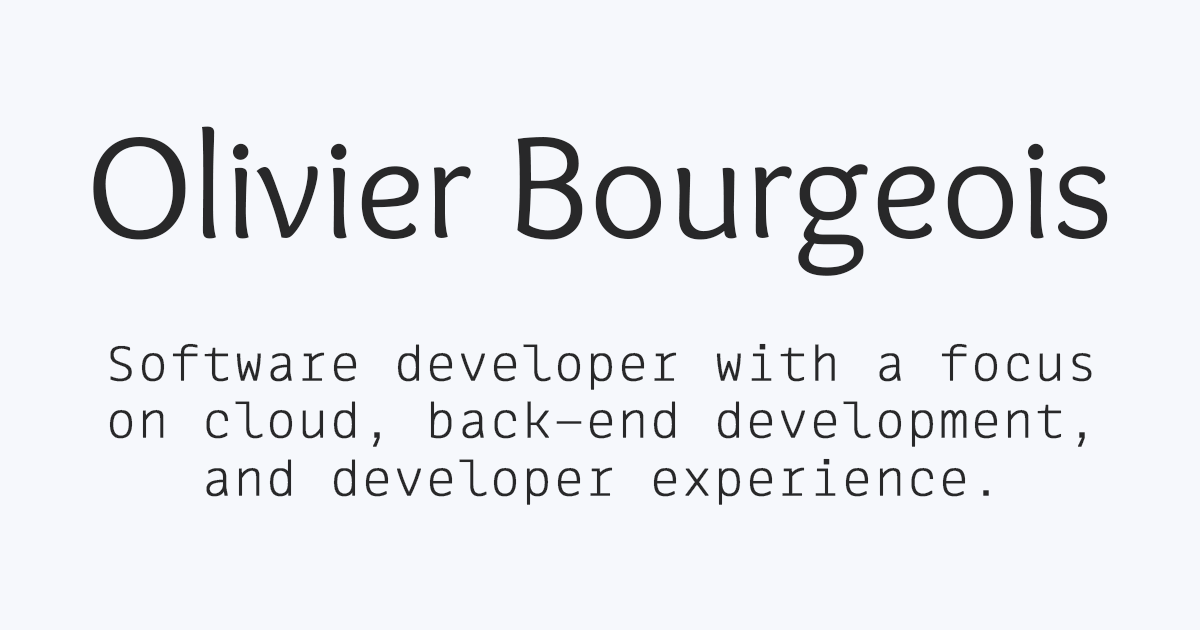
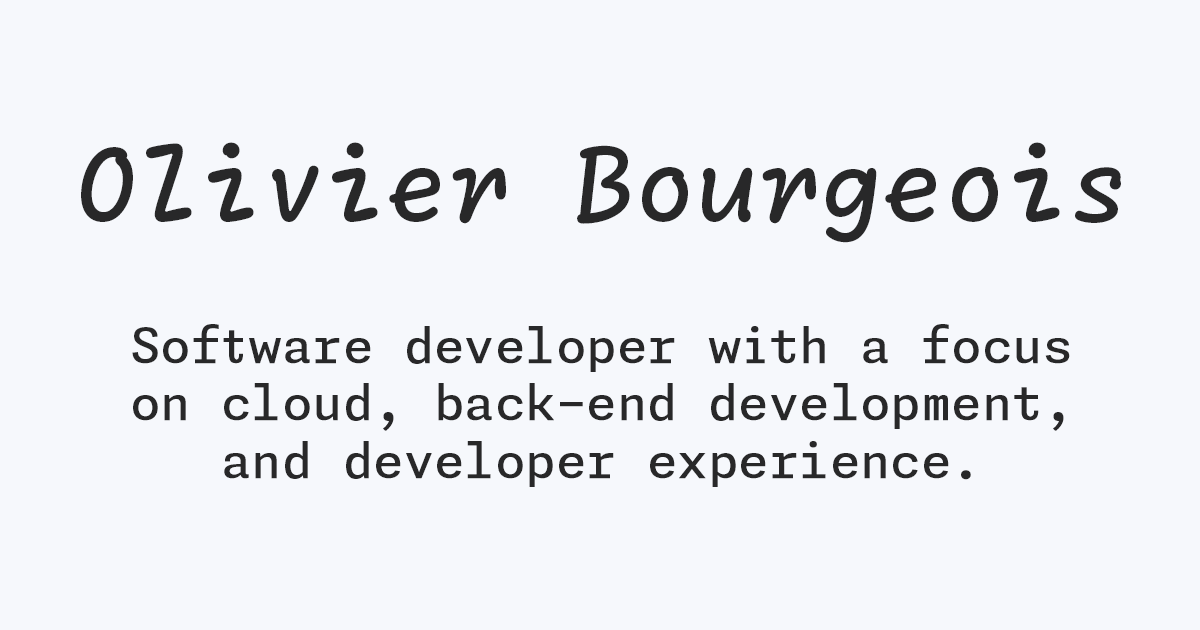
Tweak styling and wordings

Changed region(s): [[0.0925, 0.5127, 0.925, 0.8143], [0.0617, 0.181, 0.9558, 0.4524]]

diff --git a/static/style.css b/static/style.css
@@ -19,8 +19,10 @@
   --color-orange: #86510c;
   --color-purple: #8418dd;
 
-  --header-font-family: "Monaspace Neon", monospace, sans-serif;
+  --header-font-family: "Monaspace Radon", monospace, sans-serif;
   --body-font-family: "Monaspace Neon", monospace, sans-serif;
+  --font-size: 18px;
+  --line-height: 1.6;
 }
 
 :root[data-theme="dark"] {
@@ -49,7 +51,6 @@
 }
 
 @font-face {
-  /* TODO: figure out why font features are not working */
   font-family: "Monaspace Neon";
   font-style: normal;
   font-weight: 200 800;
@@ -57,6 +58,18 @@
   font-display: swap;
   src: url("/static/fonts/MonaspaceNeonVarVF[wght,wdth,slnt].woff2") format("woff2");
   src: url("/static/fonts/MonaspaceNeonVarVF[wght,wdth,slnt].woff2") format("woff2") tech("variations");
+  font-variation-settings: "slnt" 0, "wdth" 100, "wght" 400;
+  font-feature-settings: "calt", "liga", "ss01", "ss02", "ss03", "ss04", "ss05", "ss06", "ss07", "ss08";
+}
+
+@font-face {
+  font-family: "Monaspace Radon";
+  font-style: normal;
+  font-weight: 200 800;
+  font-stretch: 100 125;
+  font-display: swap;
+  src: url("/static/fonts/MonaspaceRadonVarVF[wght,wdth,slnt].woff2") format("woff2");
+  src: url("/static/fonts/MonaspaceRadonVarVF[wght,wdth,slnt].woff2") format("woff2") tech("variations");
   font-variation-settings: "slnt" 0, "wdth" 100, "wght" 400;
   font-feature-settings: "calt", "liga", "ss01", "ss02", "ss03", "ss04", "ss05", "ss06", "ss07", "ss08";
 }
@@ -69,8 +82,8 @@ body {
 
   font-family: var(--body-font-family);
   font-optical-sizing: auto;
-  font-size: 16px;
-  line-height: 1.5;
+  font-size: var(--font-size);
+  line-height: var(--line-height);
 
   max-width: 1200px;
   padding: 0 50px;
@@ -135,7 +148,7 @@ header {
   padding-right: 30px;
 }
 
-#header-card > h1 {
+#header-card > a > h1 {
   color: var(--text-color);
   margin-bottom: 0;
 }
@@ -150,7 +163,7 @@ header > nav {
   background-color: var(--main-background-color);
   border-radius: 20px;
   border: 1px solid var(--borders-color);
-  height: 35px;
+  height: 38px;
   display: flex;
   justify-content: space-between;
 }
@@ -172,7 +185,7 @@ header > nav > ul > li > a {
   font-variation-settings: "slnt" 0, "wdth" 100, "wght" 500;
   padding: 0 10px;
   display: inline-block;
-  height: 29px;
+  height: 32px;
   padding-top: 6px;
 }
 
@@ -430,6 +443,8 @@ pre code {
 @media (max-width: 576px) {
   body {
     padding: 0 0;
+    font-size: 16px;
+    line-height: 1.4;
   }
 
   main {
@@ -446,11 +461,19 @@ pre code {
 
   header > nav {
     border-radius: 0;
+    justify-content: center;
+  }
+
+  header > nav > ul {
+    display: flex;
+    justify-content: space-evenly;
+    width: 100%;
   }
 
   #header-card {
     padding-left: 15px;
     padding-right: 15px;
+    text-align: center;
   }
 
   #blog-list > .resume-cards-group:not(:first-child) {
@@ -460,9 +483,21 @@ pre code {
   footer {
     padding: 15px;
   }
+
+  h1 {
+    font-size: 2rem;
+  }
+
+  h2 {
+    font-size: 1.8rem;
+  }
+
+  .d-xs-none {
+    display: none;
+  }
 }
 
-@media (min-width: 576px) and (max-width: 768px) {
+@media (min-width: 576px) and (max-width: 768px) {  
   body {
     padding: 10px 30px;
   }

diff --git a/templates/_prefix.html b/templates/_prefix.html
@@ -49,41 +49,40 @@
   </head>
   <body>
     <header>
-      <img src="/static/assets/profile.jpg" alt="Olivier Bourgeois" id="header-image" class="d-sm-none" width="88" height="88">
+      <a href="/">
+        <img src="/static/assets/profile.jpg" alt="Olivier Bourgeois" id="header-image" class="d-sm-none" width="88" height="88">
+      </a>
       <div id="header-card">
-        <h1>Olivier Bourgeois</h1>
+        <a href="/"><h1>Olivier Bourgeois</h1></a>
         <p>Software developer with a focus on cloud, back-end development, and developer experience.</p>
       </div>
       <nav>
         <ul>
           <li><a href="/">
-            <i class="fa-regular fa-house"></i><span class="d-sm-none ms-1">Home</span>
+            <i class="fa-regular fa-house"></i><span class="d-md-none ms-1">Home</span>
           </a></li>
           <li><a href="/blog/">
-            <i class="fa-regular fa-newspaper"></i><span class="d-sm-none ms-1">Blog</span></span>
+            <i class="fa-regular fa-newspaper"></i><span class="d-md-none ms-1">Blog</span></span>
           </a></li>
           <li><a href="/about/">
-            <i class="fa-regular fa-messages-question"></i><span class="d-sm-none ms-1">About</span></span>
+            <i class="fa-regular fa-messages-question"></i><span class="d-md-none ms-1">About</span></span>
           </a></li>
           <li><a href="/now/">
-            <i class="fa-regular fa-calendar-lines-pen"></i><span class="d-sm-none ms-1">Now</span></span>
+            <i class="fa-regular fa-calendar-lines-pen"></i><span class="d-md-none ms-1">Now</span></span>
           </a></li>
           <li><a href="/projects/">
-            <i class="fa-regular fa-seedling"></i><span class="d-sm-none ms-1">Projects</span></span>
+            <i class="fa-regular fa-seedling"></i><span class="d-md-none ms-1">Projects</span></span>
           </a></li>
           <li><a href="/resume/">
-            <i class="fa-regular fa-memo-circle-info"></i><span class="d-sm-none ms-1">Resume</span></span>
+            <i class="fa-regular fa-memo-circle-info"></i><span class="d-md-none ms-1">Resume</span></span>
           </a></li>
           <li><a href="/contact/">
-            <i class="fa-regular fa-envelope"></i><span class="d-sm-none ms-1">Contact</span></span>
+            <i class="fa-regular fa-envelope"></i><span class="d-md-none ms-1">Contact</span></span>
           </a></li>
         </ul>
-        <ul class="d-md-none">
+        <ul class="d-xs-none">
           <li><a href="https://github.com/bourgeoisor" target="_blank" aria-label="Link to my GitHub profile">
             <i class="fa-brands fa-github"></i>
-          </a></li>
-          <li><a href="https://www.instagram.com/olivi_eh/" target="_blank" aria-label="Link to my Instagram profile">
-            <i class="fa-brands fa-instagram"></i>
           </a></li>
           <li><a href="https://www.linkedin.com/in/olivi-eh/" target="_blank" aria-label="Link to my LinkedIn profile">
             <i class="fa-brands fa-linkedin"></i>

diff --git a/templates/_suffix.html b/templates/_suffix.html
@@ -1,5 +1,5 @@
   <footer>
-    <div class="d-sm-none">
+    <div class="d-md-none">
       Powered by 100% Canadian maple syrup. <i class="fa-solid fa-leaf-maple"></i>
     </div>
     <div>

diff --git a/notes/meta/index.md b/notes/meta/index.md
@@ -1,4 +1,4 @@
-modified: 2024-12-21
+modified: 2025-01-11
 template: index
 ---
 
@@ -6,10 +6,16 @@ template: index
 
 Hi! My name's Olivier (`/ɔ.li.vje/`). I'm a Canadian software developer with a decade of experience. Outside of tech, I enjoy being in nature, taking [photographs](https://www.instagram.com/olivi_eh/){:target="_blank"}, listening to & playing music, exploring urbanism, and learning how the world around me works. You can find out [more about me](/about/), or take a look at [my resume](/resume/) and [projects](/projects/).
 
-## <i class="fa-duotone fa-light fa-calendar-lines-pen me-1"></i>What am I up to?
+## <i class="fa-duotone fa-light fa-calendar-lines-pen me-1"></i>What am I up to lately?
 
 Glance at my [/now page](/now/) to see a snapshot of my goings and doings.
 
+## <i class="fa-duotone fa-light fa-microchip-ai me-1"></i>What is my stance on AI?
+
+All content on this website has been written by me personally without the use of any AI tools. See the [/ai page](/ai/) for a more thorough understanding of how I feel about AI.
+
 ## <i class="fa-duotone fa-light fa-newspaper me-1"></i>What am I writing about?
 
-See the [/blog page](/blog/) for a complete list of posts I've published, or glance at the latest below.
+See the [/blog page](/blog/) for a complete list of posts I've published.
+
+### Latest posts

diff --git a/notes/meta/now.md b/notes/meta/now.md
@@ -2,12 +2,11 @@ title: Now
 modified: 2024-12-24
 ---
 
-## <i class="fa-duotone fa-light fa-calendar-lines-pen me-1"></i> Now
+## <i class="fa-duotone fa-light fa-calendar-lines-pen me-1"></i>Now
 
 Most websites have an _About_ page where you can learn about the background of the person
 or business. They have a _Contact_ page where you can reach out. In contrast, a _Now_ page
 is an up-to-date summarized snapshot of where a person is focused on, at this very moment.
-The idea for this page was inspired by [Derek Siver's](https://sive.rs/now){:target="_blank"}.
 
 ### What have I been up to, lately?
 
@@ -51,3 +50,7 @@ Currently **watching**...
 - Dandadan
 - Tonari no Seki-kun
 - The Boys
+
+---
+
+This page was inspired by [Derek Siver's](https://sive.rs/now){:target="_blank"} and is listed on [NowNowNow](https://nownownow.com/){:target="_blank"}.

diff --git a/notes/meta/blog.md b/notes/meta/blog.md
@@ -3,7 +3,7 @@ modified: 2024-12-21
 template: blog-index
 ---
 
-## <i class="fa-duotone fa-light fa-newspaper me-1"></i> Blog
+## <i class="fa-duotone fa-light fa-newspaper me-1"></i>Blog
 
 Here you'll find a complete list of my writings, in reverse chronological order.
 I do not claim to represent any corporation or organization. Views are all my own.
@@ -11,5 +11,5 @@ See something incorrect, or that you'd like to talk about? [Let me know](/contac
 
 ### Writings
 
-You can subscribe to my [RSS feed](/rss.xml){:target="_blank"} or [Atom feed](/atom.xml){:target="_blank"}
-to be notified of new entries.
+Subscribe to the [RSS feed](/rss.xml){:target="_blank"} or [Atom feed](/atom.xml){:target="_blank"}
+to be notified of new posts.

diff --git a/notes/meta/resume.md b/notes/meta/resume.md
@@ -2,7 +2,7 @@ title: Resume
 modified: 2024-12-21
 ---
 
-## <i class="fa-duotone fa-light fa-memo-circle-info me-1"></i> Resume
+## <i class="fa-duotone fa-light fa-memo-circle-info me-1"></i>Resume
 
 You can [find me on LinkedIn](https://www.linkedin.com/in/olivi-eh/){:target="_blank"}. You can also [download this resume in a PDF format](/static/assets/OlivierBourgeois-Resume.pdf){:target="_blank"}.
 

diff --git a/notes/meta/about.md b/notes/meta/about.md
@@ -2,7 +2,7 @@ title: About
 modified: 2024-12-24
 ---
 
-## <i class="fa-duotone fa-light fa-messages-question me-1"></i> About
+## <i class="fa-duotone fa-light fa-messages-question me-1"></i>About
 
 If you're here, you're likely curious about me. Why this page? **Life is short**, and if it helps
 someone connect over shared interests, that's a win. This page also serves as a sort of **ever-evolving

diff --git a/notes/meta/contact.md b/notes/meta/contact.md
@@ -2,7 +2,7 @@ title: Contact
 modified: 2024-12-21
 ---
 
-## <i class="fa-duotone fa-light fa-envelope me-1"></i> Contact
+## <i class="fa-duotone fa-light fa-envelope me-1"></i>Contact
 
 Do you want to chat about something I've talked about, share a new opportunity with me,
 or simply would like to say hi? I would love to hear from you!

diff --git a/notes/meta/employment.md b/notes/meta/employment.md
@@ -2,7 +2,7 @@ title: Employment
 modified: 2024-12-21
 ---
 
-## <i class="fa-duotone fa-light fa-memo-circle-info me-1"></i> Employment
+## <i class="fa-duotone fa-light fa-memo-circle-info me-1"></i>Employment
 
 This page contains a complete list of my employment history since 2016. [View my resume](/resume/).
 

diff --git a/notes/meta/projects.md b/notes/meta/projects.md
@@ -2,7 +2,7 @@ title: Projects
 modified: 2024-12-21
 ---
 
-## <i class="fa-duotone fa-light fa-seedling me-1"></i> Projects
+## <i class="fa-duotone fa-light fa-seedling me-1"></i>Projects
 
 This page contains a non-exhaustive list of my active projects. [View my resume](/resume/).
 
